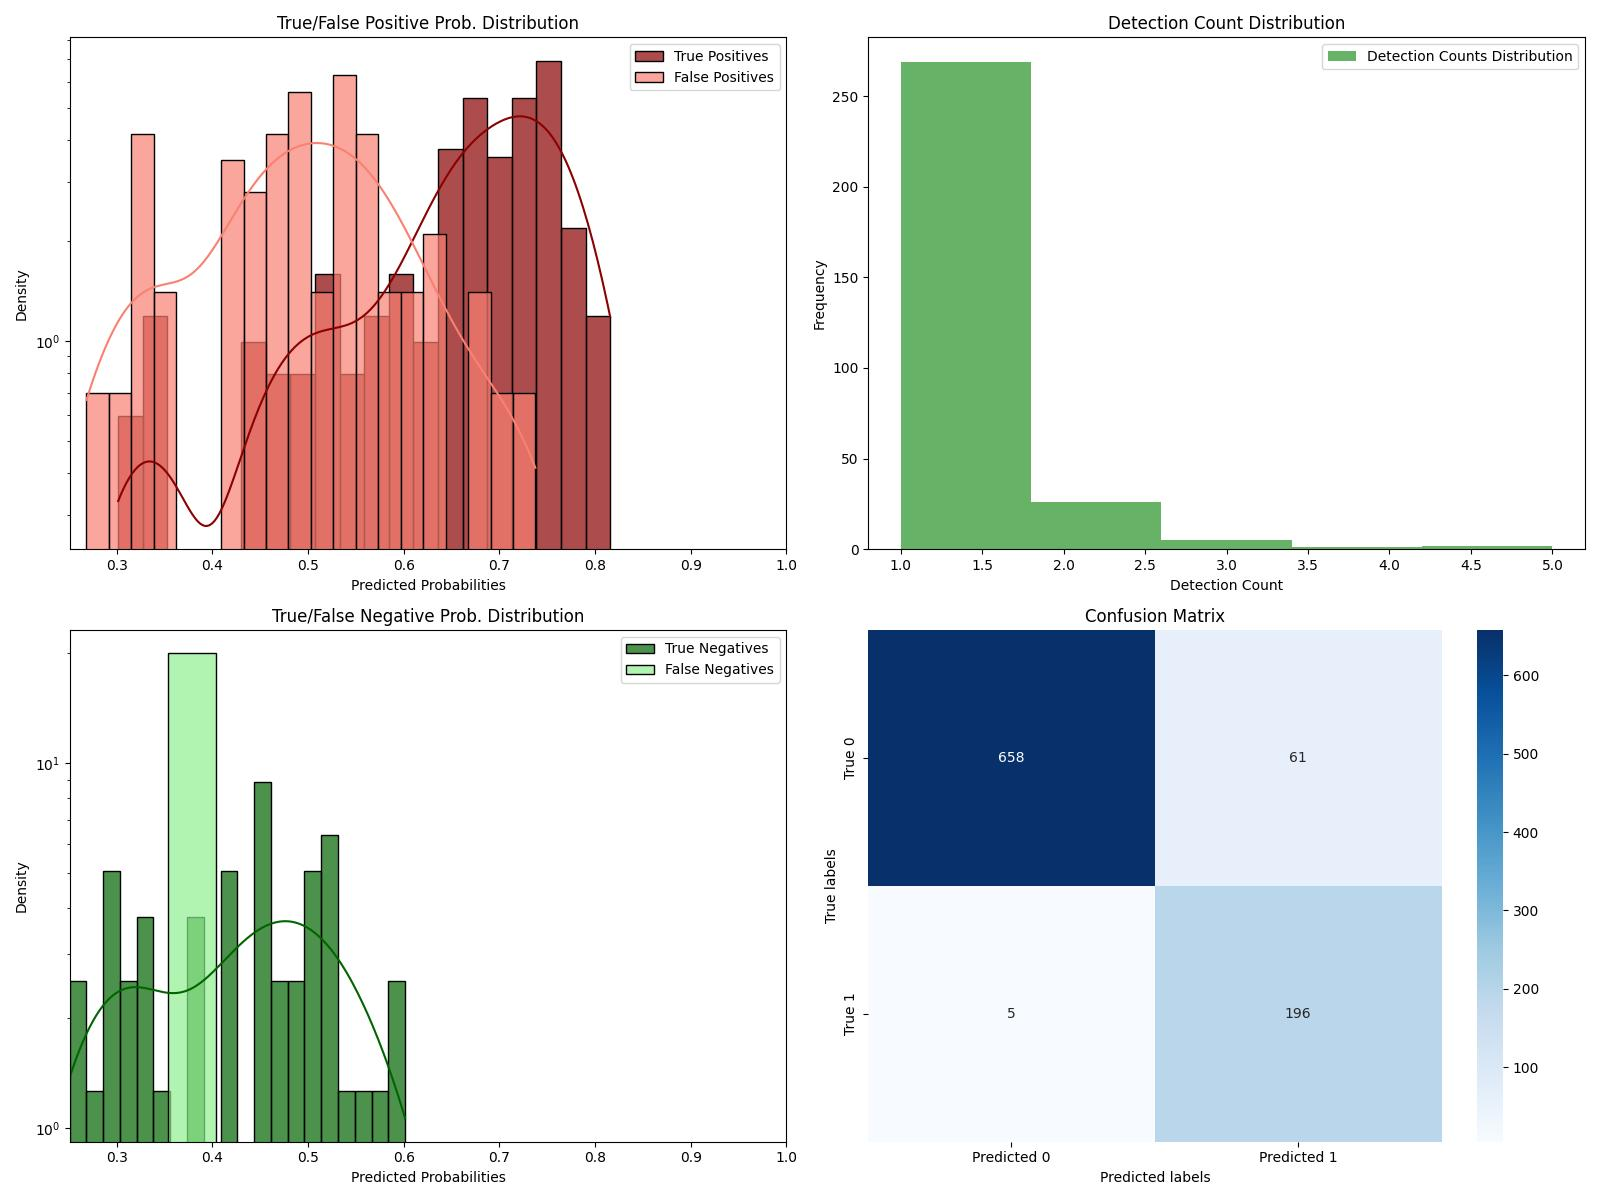
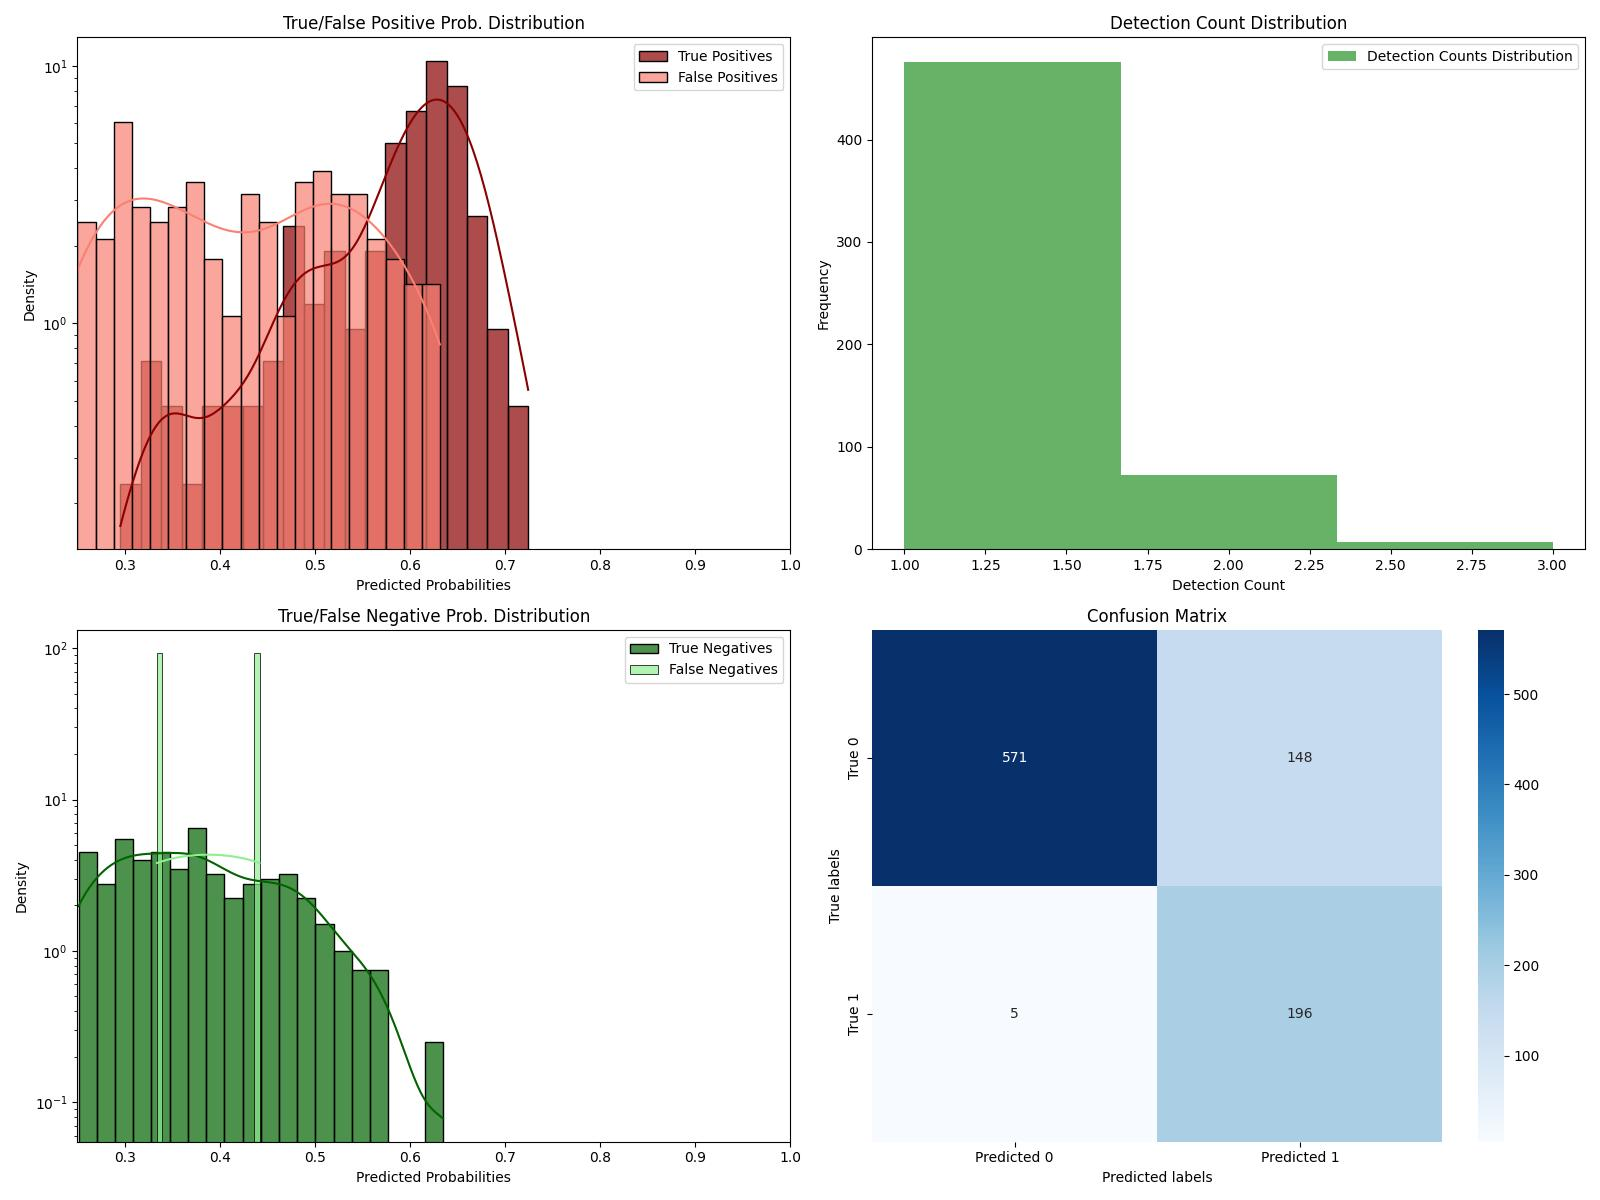
onnx

diff --git a/onnx_inference.py b/onnx_inference.py
@@ -1,0 +1,177 @@
+import os
+import random
+import numpy as np
+import onnxruntime
+from PIL import Image
+from ultralytics import YOLO
+
+model = YOLO("models/best.pt").export(
+    format="onnx", opset=9, data="yolo_dataset/dataset.yaml"
+)
+
+onnx_model = YOLO("models/best.onnx")
+
+
+def sample_random_image_from_dir(directory_path, seed=42, valid_extensions=("jpeg")):
+    """
+    Select a random image file from a specified directory.
+
+    Parameters:
+    - directory_path: The path to the directory containing image files.
+    - valid_extensions: A tuple of valid image file extensions.
+
+    Returns:
+    The full path to a randomly selected image file.
+    """
+    # List all files in the directory
+    all_files = os.listdir(directory_path)
+
+    # Filter for files with valid image extensions
+    image_files = [
+        file for file in all_files if file.lower().endswith(valid_extensions)
+    ]
+
+    if not image_files:
+        raise ValueError("No image files found in the specified directory")
+
+    # Select a random image file
+    random.seed(seed)
+    selected_image = random.choice(image_files)
+
+    # Return the full path to the selected image
+    return os.path.join(directory_path, selected_image)
+
+
+def inspect_yolo_inference_onnx(onnx_model_path, image_path, input_size=640):
+    """
+    Inspect the structure of the output from the YOLO model exported in ONNX format.
+
+    Parameters:
+    - onnx_model_path: The path to the ONNX model file.
+    - image_path: The path to the image file.
+    - input_size: The size to which the image is resized before passing to the model.
+    """
+    # Assume previous imports and image preprocessing steps before this comment
+
+    session = onnxruntime.InferenceSession(onnx_model_path)
+    image = Image.open(image_path).convert("RGB")
+    image_resized = image.resize((input_size, input_size))
+    image_np = np.array(image_resized).astype(np.float32) / 255.0
+    image_np = np.transpose(image_np, [2, 0, 1])
+    image_np = np.expand_dims(image_np, axis=0)
+
+    input_name = session.get_inputs()[0].name
+    output = session.run(None, {input_name: image_np})
+
+    # For diagnostic purposes, let's print the output structure
+    print("Output Structure:", type(output))
+    if isinstance(output, list):
+        print("Number of elements in output list:", len(output))
+        for i, out in enumerate(output):
+            print(
+                f"Element {i}, Type: {type(out)}, Shape: {out.shape if hasattr(out, 'shape') else 'N/A'}"
+            )
+
+
+# Call the function with the correct paths to your model and an image
+# inspect_yolo_inference_onnx(onnx_model_path, image_path)
+
+
+def yolo_inference_onnx_v3(
+    onnx_model_path, image_path, input_size=640, conf_thres=0.25
+):
+    """
+    Perform inference using a version adapted to handle binary classification and confidence scores correctly.
+
+    The function assumes class IDs should be within [0, 1] and confidence scores are already in the correct format.
+    """
+
+    # Load the model and prepare the image
+    session = onnxruntime.InferenceSession(onnx_model_path)
+    image = Image.open(image_path).convert("RGB")
+    image_resized = image.resize((input_size, input_size))
+    image_np = np.array(image_resized).astype(np.float32) / 255.0
+    image_np = np.transpose(image_np, [2, 0, 1])
+    image_np = np.expand_dims(image_np, axis=0)
+
+    input_name = session.get_inputs()[0].name
+    output = session.run(None, {input_name: image_np})[0]  # Assuming single output.
+
+    # Process the output
+    detections = []
+    for det in output[0]:  # Loop through each detection in the batch
+        class_id = int(det[1])
+        # Ensure class ID is within expected range
+        if class_id not in {0, 1}:
+            continue
+
+        score = det[2]
+        # Skip detections below the confidence threshold
+        if score < conf_thres:
+            continue
+
+        bbox = det[3:7]  # Extract bounding box coordinates
+        detections.append(
+            {
+                "class": class_id,
+                "probability": score,  # Interpret this value as given; adjust based on your model's training
+                "bbox": bbox.tolist(),
+            }
+        )
+
+    return detections
+
+
+def yolo_inference_onnx(onnx_model_path, image_path, input_size=640, conf_thres=0.25):
+    """
+    Perform inference using a corrected version to accommodate the model's actual output format.
+
+    Parameters:
+    - onnx_model_path: Path to the ONNX model file.
+    - image_path: Path to the image file.
+    - input_size: Resize dimension for the input image.
+    - conf_thres: Confidence threshold for filtering detections.
+    """
+
+    # Load the model and prepare the image
+    session = onnxruntime.InferenceSession(onnx_model_path)
+    image = Image.open(image_path).convert("RGB")
+    image_resized = image.resize((input_size, input_size))
+    image_np = np.array(image_resized).astype(np.float32) / 255.0
+    image_np = np.transpose(image_np, [2, 0, 1])
+    image_np = np.expand_dims(image_np, axis=0)
+
+    input_name = session.get_inputs()[0].name
+    output = session.run(None, {input_name: image_np})[0]  # Assuming single output.
+
+    # Process the output
+    detections = []
+    for det in output[0]:  # Loop through each detection in the batch
+        score = det[2]
+        if score < conf_thres:
+            continue
+        class_id = int(det[1])
+        bbox = det[3:7]  # Extract bounding box coordinates
+        detections.append(
+            {"class": class_id, "probability": score, "bbox": bbox.tolist()}
+        )
+
+    return detections
+
+
+# Given paths to the ONNX model and an image, you'd call this function as follows:
+# detections = yolo_inference_onnx_v2(onnx_model_path, image_path)
+# print(detections)
+
+
+if __name__ == "__main__":
+    ONNX_MODEL_PATH = "models/best.onnx"
+    IMAGE_DIR = "yolo_dataset/test/images"
+
+    image_path = sample_random_image_from_dir(IMAGE_DIR)
+
+    detections = yolo_inference_onnx(ONNX_MODEL_PATH, image_path)
+    print(detections)
+
+    # inspect_yolo_inference_onnx(ONNX_MODEL_PATH, image_path)
+    onnx_model.predict(image_path)

diff --git a/yolo_evaluation.py b/yolo_evaluation.py
@@ -121,7 +121,7 @@ def assign_labels(pos_dir, neg_dir, test_dir):
 
 if __name__ == "__main__":
 
-    modelpath = "models/fine_tuned.pt"
+    modelpath = "models/best.pt"
     model = YOLO(modelpath)
 
     # convert_images_to_jpeg("yolo_dataset/mar24/positive")
